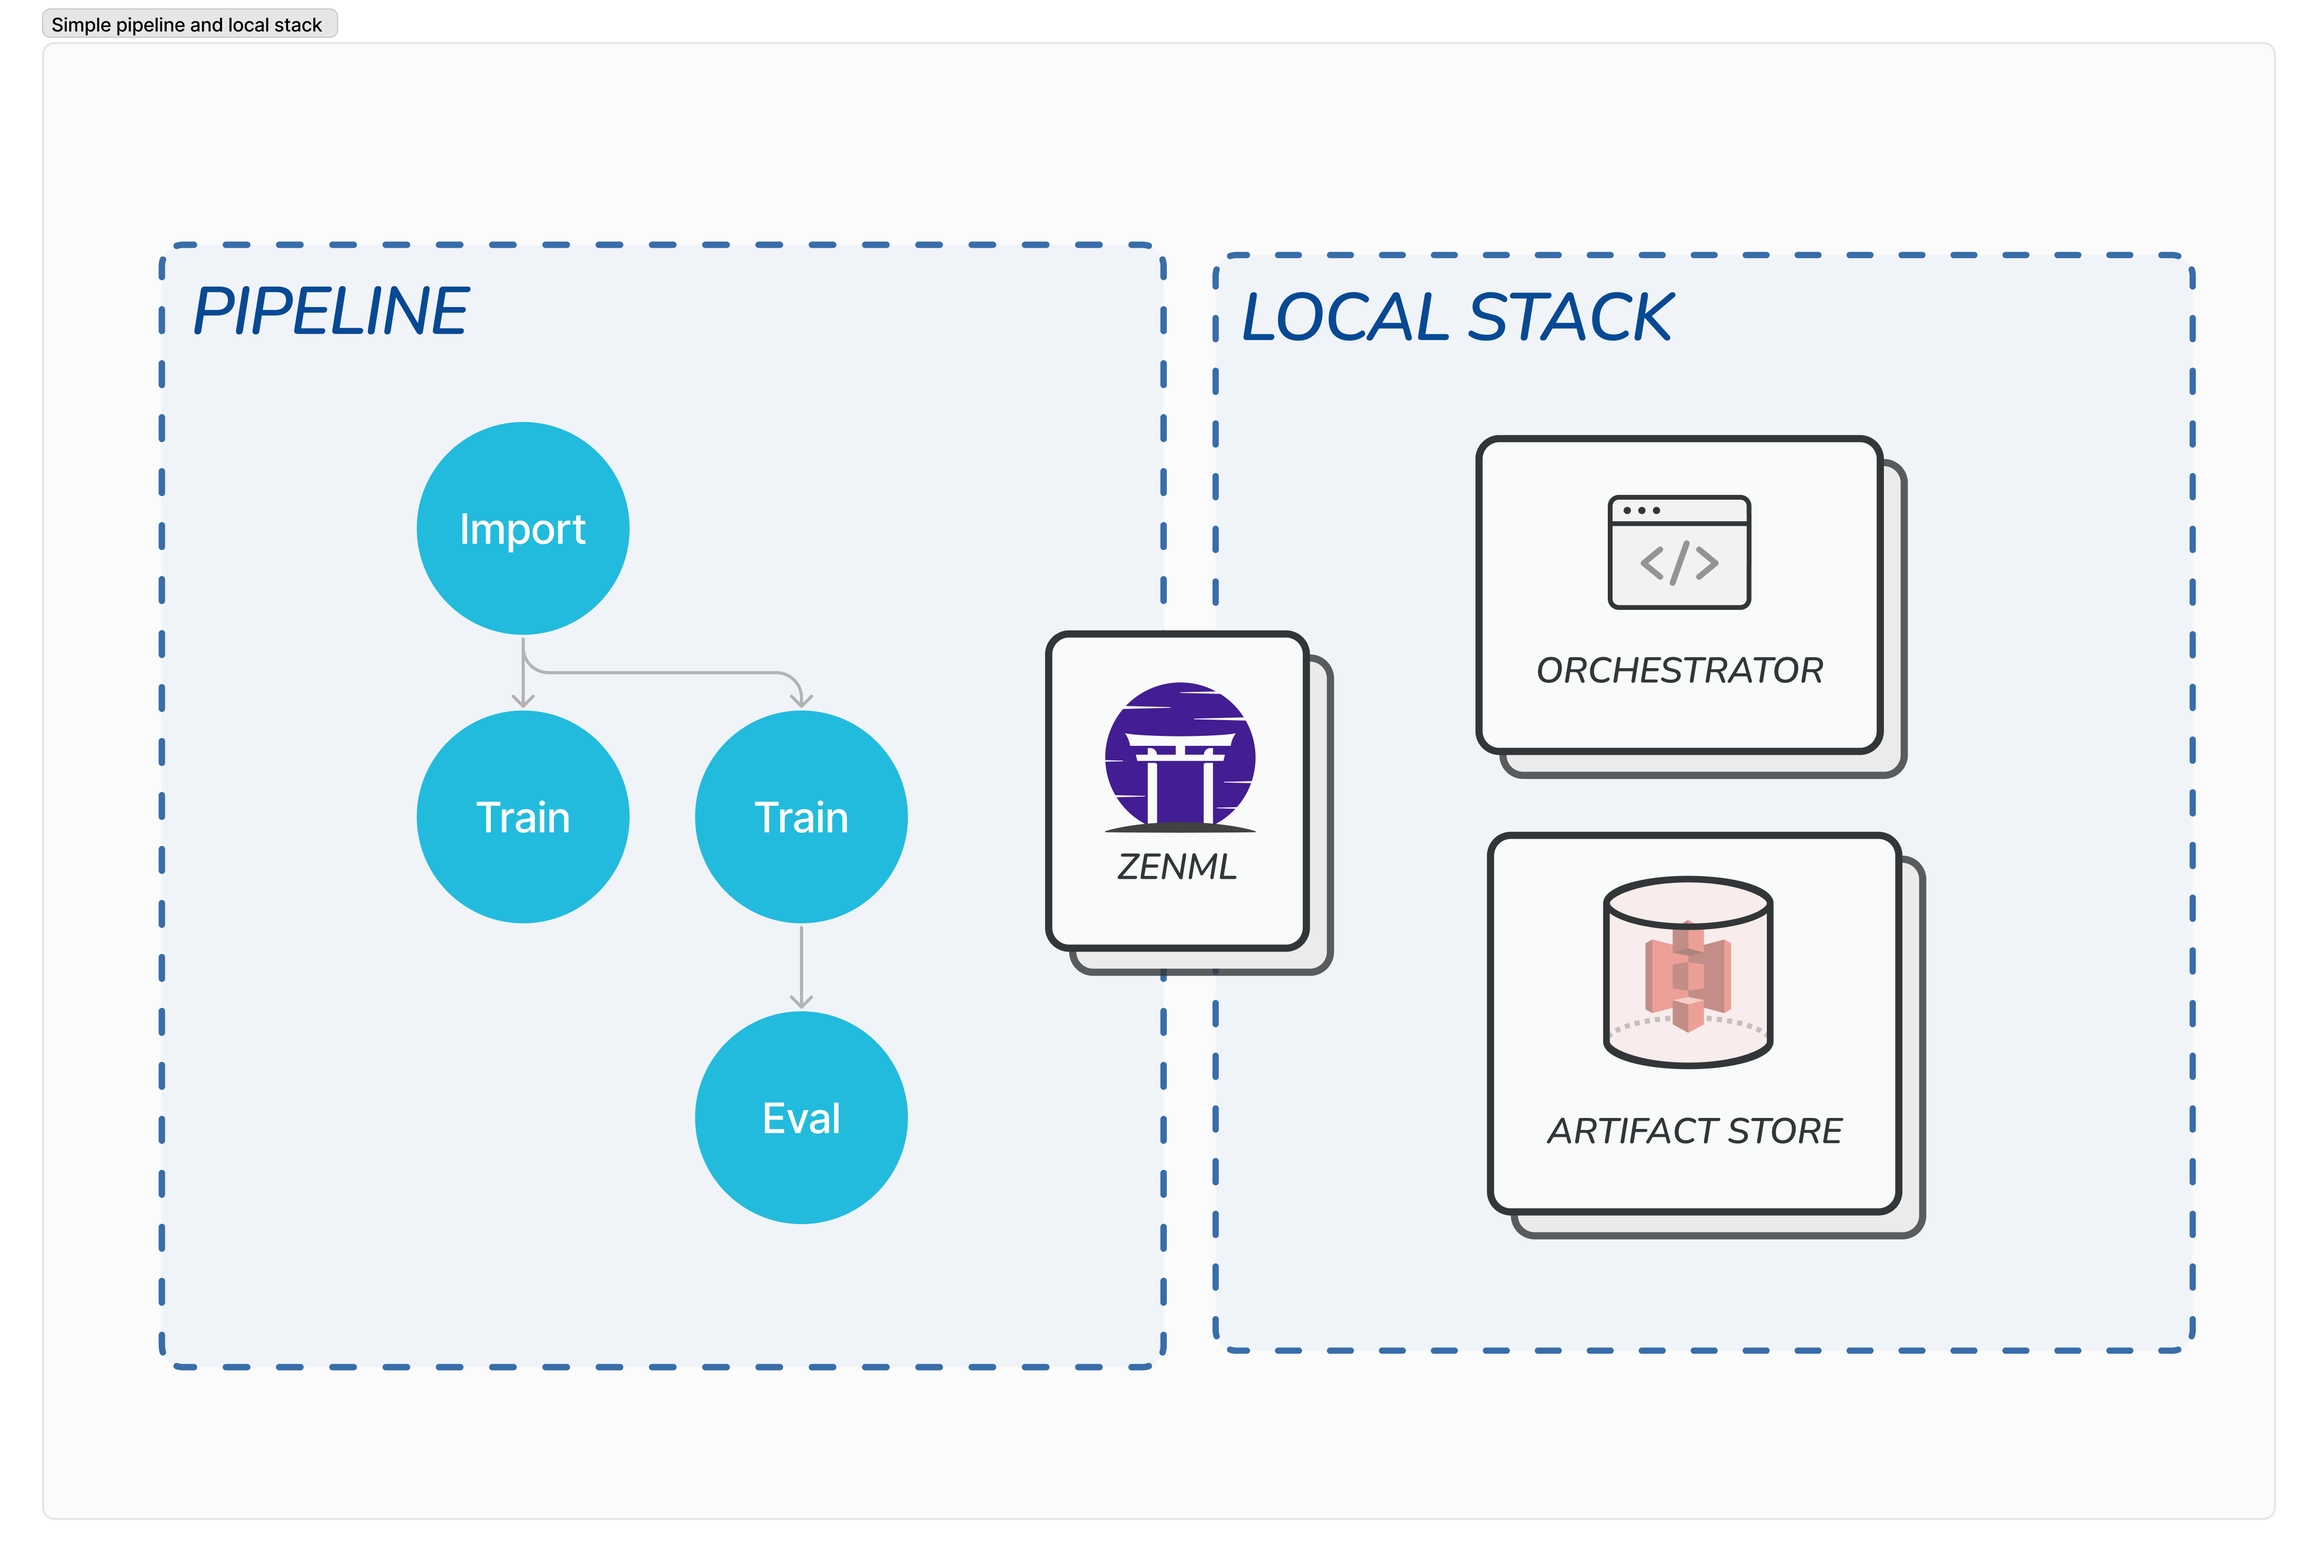
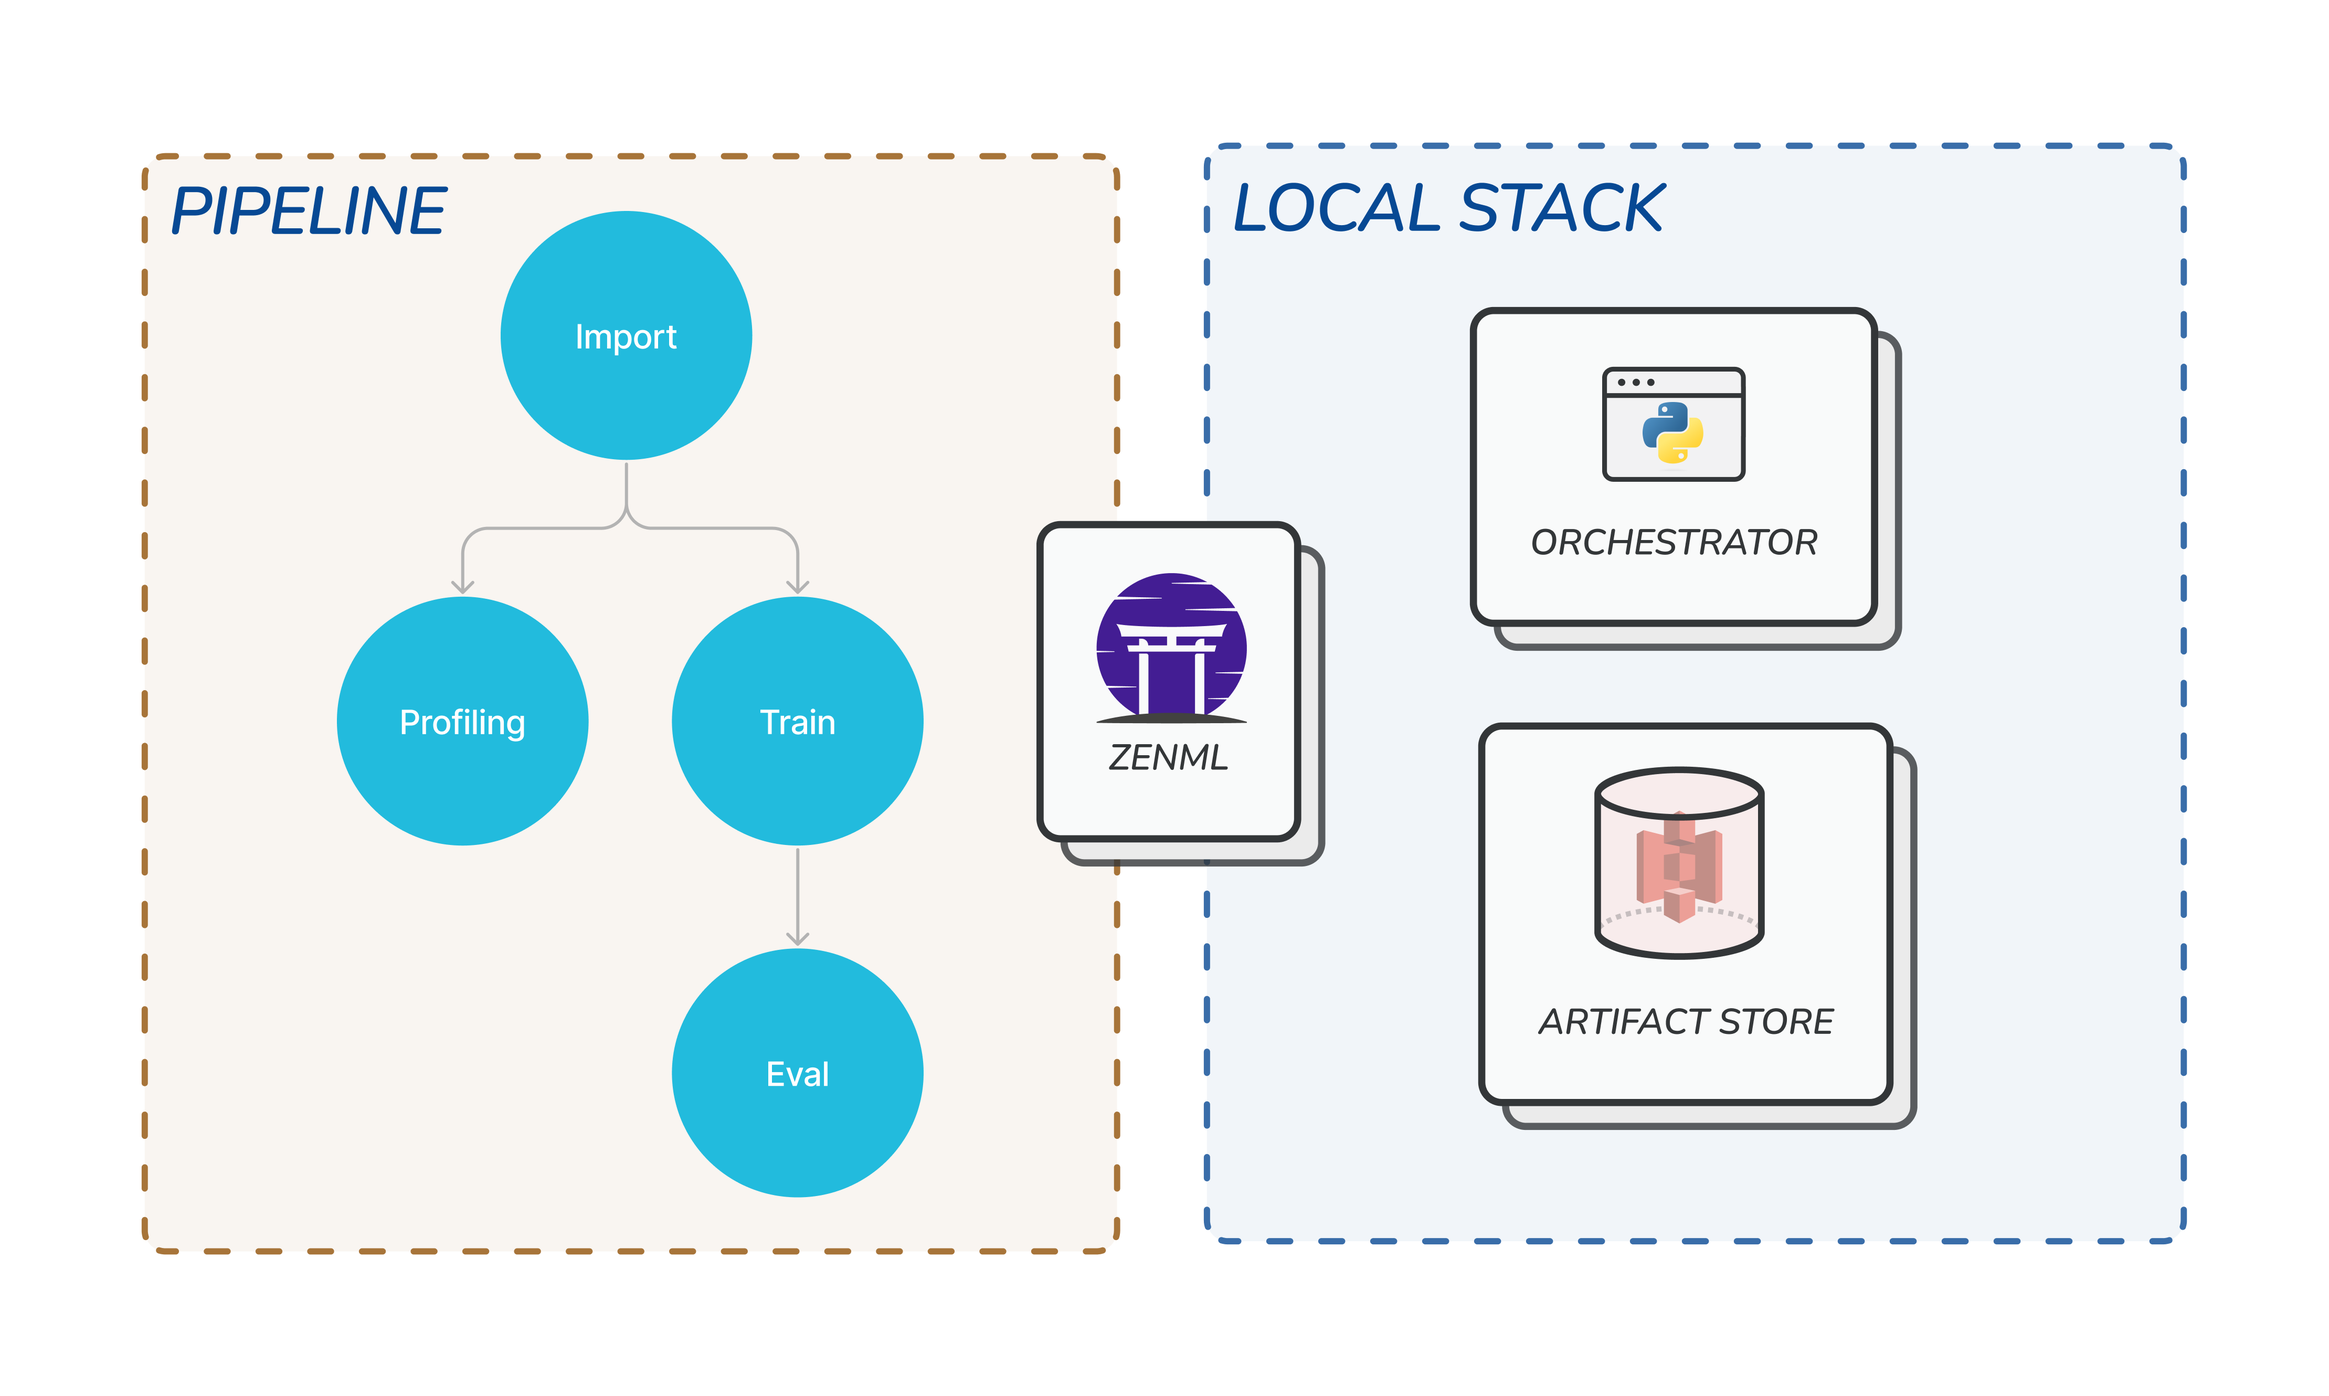
Updated diagrams in the core_concepts page

diff --git a/docs/book/getting-started/core-concepts.md b/docs/book/getting-started/core-concepts.md
@@ -100,7 +100,7 @@ In order to run *stack components* that are running on infrastructure on the clo
 A **ZenML Server** keeps track of all the bits of extraneous data from a pipeline run. It allows you to fetch specific steps from your pipeline run and their output artifacts in a post-execution workflow. With a ZenML server, you are able to access all of your previous experiments with the associated details.
 This is extremely helpful in troubleshooting.
 
-![ZenML Architectural Diagram](../assets/architecture_diagram.png)
+![ZenML Architectural Diagram](../assets/core_concepts/pipelines_stacks_infrastructure.png)
 
 The **ZenML Dashboard** also communicates with the ZenML Server to visualize your *pipelines*, *stacks*, and *stack components*. The dashboard serves as a visual interface to showcase collaboration with ZenML. You can invite *users*, and share your stacks with them.
 
